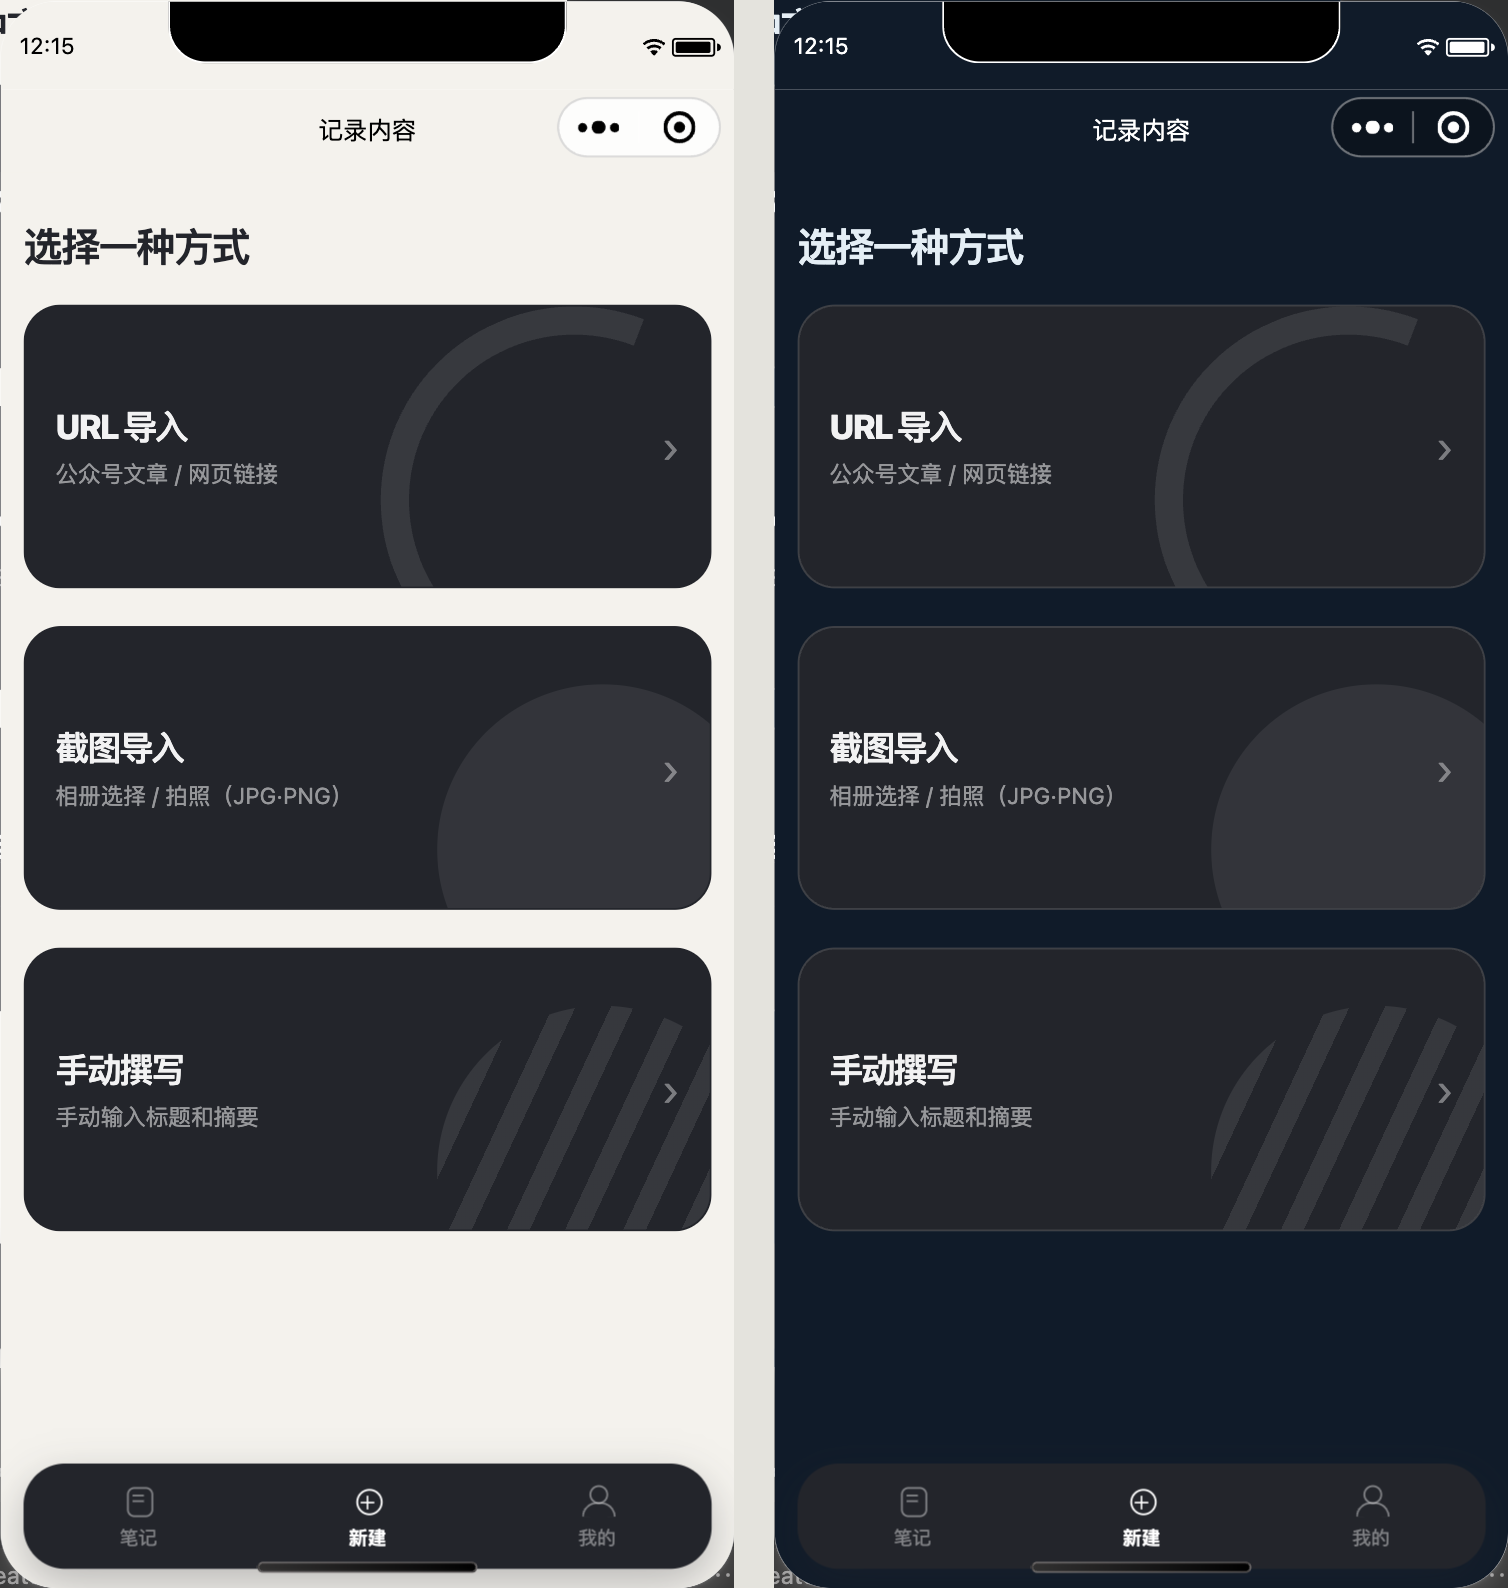
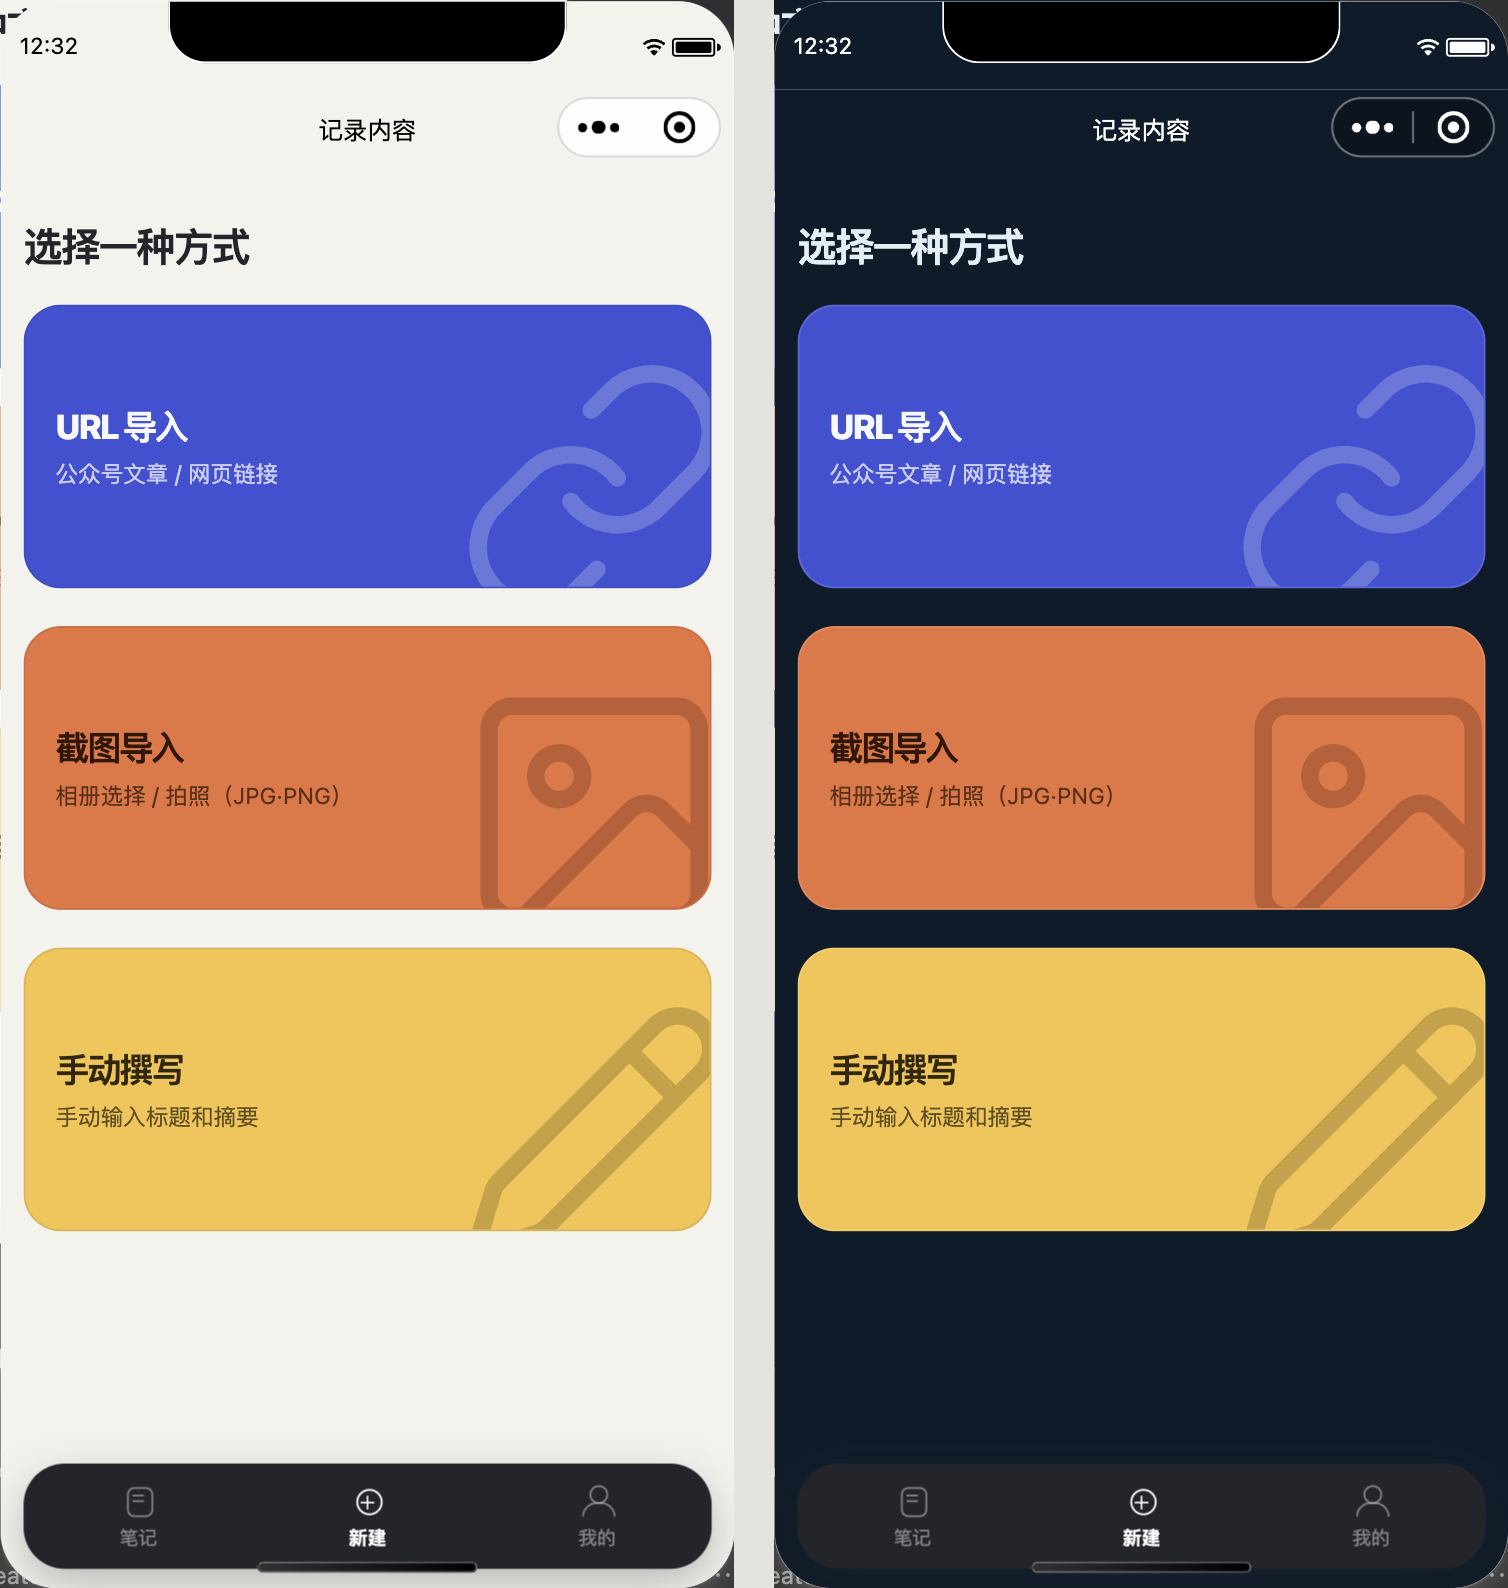
新建页三入口改回整面饱和色大卡，功能图形改用 Lucide 几何 + CSS 遮罩
两条反馈各修一次。

黑色那版被否（"彩色色块才好看，不要黑色深黑色，很抑郁"）：改成宝蓝/橙/芥末黄三张
整面饱和色卡，字色仍走 palette 的固定配对（黄/橙配白字实测 1.63/3.03，读不出来）。
黑色在这套取向里只留给"未分类"这一个语义，不再当装饰性重音。

手画图形那版被判"低级、不够高级"，病根是空心与实心混用、线宽不统一、圆角各自为政。
改取 Lucide v1.47.0（ISC）的 link / image / pencil：同一 24 格、同一描边、圆头线帽，
链条=链接、相框山日=图片、铅笔=手写，指认关系明确。
SVG 只当遮罩（mask-image），图形本体是一块 var(--blk-glyph)，颜色仍只从 palette 出；
--blk-glyph 取 0.22（比笔记母题 0.16 重一档：要认得出，但仍是水印不是贴纸），
描边按大尺寸反推取 1.5。三个入口的 › 箭头删掉——它压在图形上，整卡可点。

diff --git a/miniprogram/utils/palette.js b/miniprogram/utils/palette.js
@@ -81,12 +81,20 @@ function blockSkinFor(categoryId, noteId) {
 }
 
 /**
- * 只取某一组色的 CSS 变量串。给非笔记类的方块用（比如新建页那三个入口徽标、
+ * 只取某一组色的 CSS 变量串。给非笔记类的色块用（比如新建页那三张大卡、
  * 分类管理那列色点），免得有人在 WXSS 里另抄一份十六进制。
+ * 连 --blk-motif 一起给：淡一层同色系图形要用的就是它，值仍从这一处派生。
  */
 function toneStyle(i) {
   const tone = TONES[Math.abs(Number(i) || 0) % TONES.length]
-  return `--blk-bg:${tone.bg};--blk-ink:${tone.ink}`
+  // --blk-glyph 比 --blk-motif 重一档（0.22 对 0.16）：新建页那三个图形要认得出来，
+  // 但仍是压在卡底的水印，不是贴在表面的贴纸。
+  return [
+    `--blk-bg:${tone.bg}`,
+    `--blk-ink:${tone.ink}`,
+    `--blk-motif:${mix(tone.ink, tone.bg, 0.16)}`,
+    `--blk-glyph:${mix(tone.ink, tone.bg, 0.22)}`,
+  ].join(';')
 }
 
 function toneColor(i) {

diff --git a/miniprogram/pages/create/create.js b/miniprogram/pages/create/create.js
@@ -1,5 +1,6 @@
 const api = require('../../utils/api.js')
 const { t, texts } = require('../../utils/i18n.js')
+const { toneStyle } = require('../../utils/palette.js')
 
 Page({
   data: {
@@ -10,6 +11,10 @@ Page({
     urlInput: '',
     previewImages: [],
     submitting: false,
+    // 三张入口卡各自一组饱和色，色值和字色配对仍归 palette 管，这里只挑序号
+    skinUrl: toneStyle(1),
+    skinShot: toneStyle(2),
+    skinWrite: toneStyle(0),
   },
 
   onShow() {
